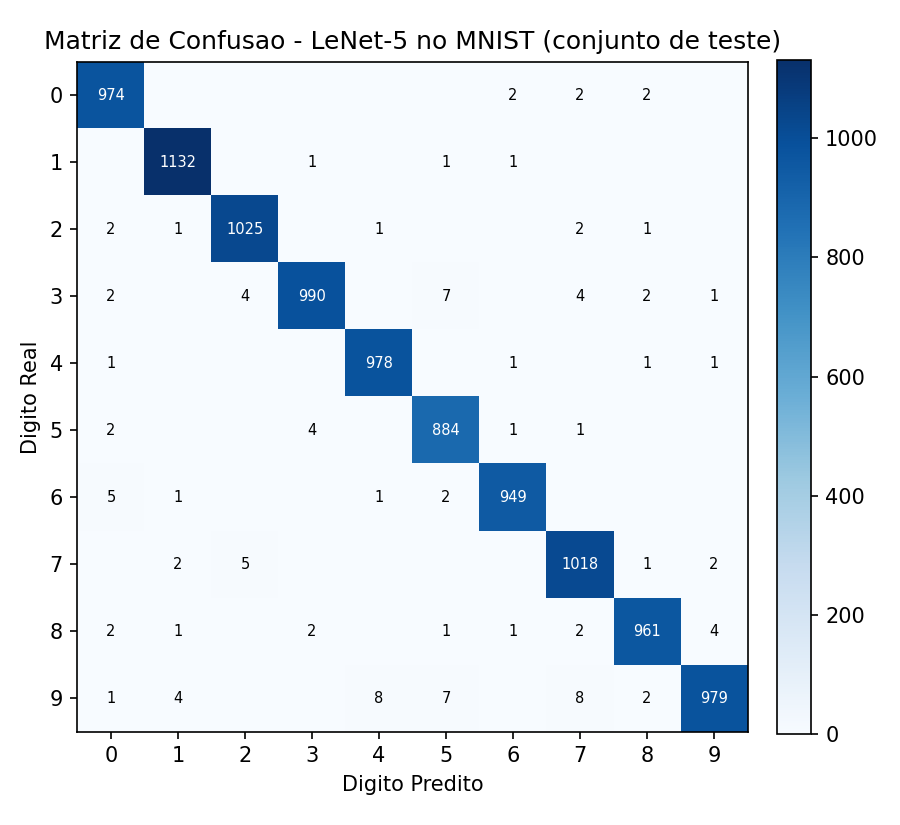
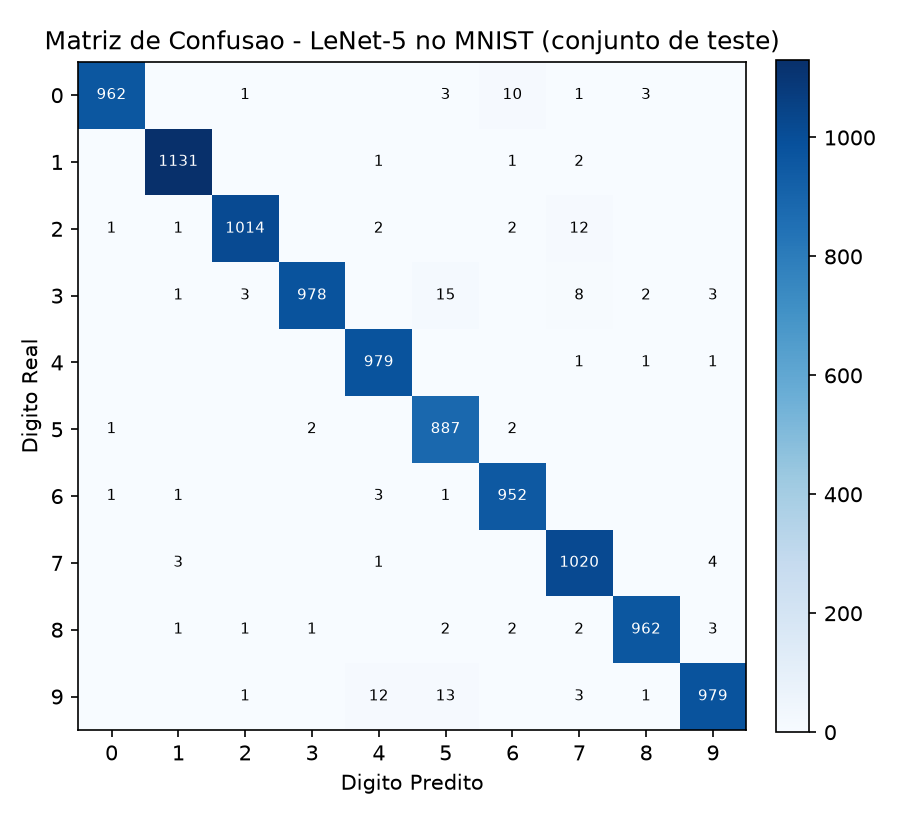
fix: hold out validation split from MNIST training set
Training used the test set as per-epoch validation, so the reported test
accuracy was not independent. Split 55k/5k from the training set with a
fixed seed, evaluate the test set once per run, and add --seeds to repeat
the run with consecutive seeds.

diff --git a/portfolio-4-machine-learning/src/projeto_04_deep_learning.py b/portfolio-4-machine-learning/src/projeto_04_deep_learning.py
@@ -17,6 +17,7 @@ ao final.
 
 from __future__ import annotations
 
+import argparse
 from dataclasses import dataclass, field
 from pathlib import Path
 from time import perf_counter
@@ -26,15 +27,17 @@ import matplotlib.pyplot as plt
 import torch
 import torch.nn as nn
 import torch.nn.functional as F
-from torch.utils.data import DataLoader
+from torch.utils.data import DataLoader, random_split
 from torchvision import datasets, transforms
 
 # Pasta onde as figuras geradas por este script sao salvas.
 FIGS_DIR = Path("imagens")
 FIGS_DIR.mkdir(exist_ok=True, parents=True)
 
+# Semente da particao treino/validacao (fixa em todas as execucoes) e semente
+# padrao de inicializacao e embaralhamento. Ver --seeds em main().
 RANDOM_STATE = 42
-torch.manual_seed(RANDOM_STATE)
+N_VAL = 5_000
 
 
 @dataclass
@@ -124,21 +127,34 @@ class LeNet5(nn.Module):
 
 
 class MnistDataModule:
-    """Encapsula o download, a normalizacao e o particionamento do MNIST."""
+    """Encapsula o download, a normalizacao e o particionamento do MNIST.
+
+    Os 60k exemplos de treino sao divididos em 55k treino / 5k validacao com
+    uma semente fixa. O conjunto de teste (10k) so e usado na avaliacao final,
+    uma unica vez, para que nenhuma decisao de treino o enxergue.
+    """
 
     MEAN, STD = 0.1307, 0.3081  # estatisticas padrao do MNIST (LeCun et al.)
 
-    def __init__(self, data_dir: str = "./mnist_data", batch_size: int = 128) -> None:
+    def __init__(self, data_dir: str = "./mnist_data", batch_size: int = 128,
+                 n_val: int = N_VAL, split_seed: int = RANDOM_STATE) -> None:
         self._batch_size = batch_size
         transform = transforms.Compose([
             transforms.ToTensor(),
             transforms.Normalize((self.MEAN,), (self.STD,)),
         ])
-        self.train_set = datasets.MNIST(data_dir, train=True, download=True, transform=transform)
+        full_train = datasets.MNIST(data_dir, train=True, download=True, transform=transform)
         self.test_set = datasets.MNIST(data_dir, train=False, download=True, transform=transform)
+        self.train_set, self.val_set = random_split(
+            full_train, [len(full_train) - n_val, n_val],
+            generator=torch.Generator().manual_seed(split_seed),
+        )
 
     def train_loader(self) -> DataLoader:
         return DataLoader(self.train_set, batch_size=self._batch_size, shuffle=True, num_workers=2)
+
+    def val_loader(self) -> DataLoader:
+        return DataLoader(self.val_set, batch_size=self._batch_size, shuffle=False, num_workers=2)
 
     def test_loader(self) -> DataLoader:
         return DataLoader(self.test_set, batch_size=self._batch_size, shuffle=False, num_workers=2)
@@ -272,25 +288,61 @@ def plot_sample_predictions(model: LeNet5, loader: DataLoader, device: str, file
     plt.close(fig)
 
 
+@dataclass
+class RunResult:
+    """DTO com o resultado de uma execucao completa (uma semente)."""
+
+    seed: int
+    history: TrainingHistory
+    confusion: np.ndarray
+    val_accuracy: float
+    test_accuracy: float
+    trainer: LeNetTrainer
+
+
+def run_experiment(data: MnistDataModule, config: TrainingConfig, seed: int) -> RunResult:
+    """Treina com 'seed', acompanha a validacao e avalia o teste uma unica vez."""
+    torch.manual_seed(seed)
+    trainer = LeNetTrainer(LeNet5(), config)
+    history = trainer.fit(data.train_loader(), data.val_loader())
+
+    confusion = trainer.collect_confusion_matrix(data.test_loader())
+    test_accuracy = float(np.trace(confusion) / confusion.sum())
+    return RunResult(seed, history, confusion, history.val_accuracies[-1], test_accuracy, trainer)
+
+
 def main() -> None:
+    parser = argparse.ArgumentParser(description="LeNet-5 no MNIST")
+    parser.add_argument("--seeds", type=int, default=1,
+                        help="numero de execucoes com sementes consecutivas a partir de 42")
+    args = parser.parse_args()
+
     config = TrainingConfig()
     print(f"Dispositivo de treinamento: {config.device}")
 
     data = MnistDataModule(batch_size=config.batch_size)
-    train_loader = data.train_loader()
-    test_loader = data.test_loader()
+    print(f"Particao: {len(data.train_set)} treino / {len(data.val_set)} validacao / "
+          f"{len(data.test_set)} teste")
 
-    model = LeNet5()
-    trainer = LeNetTrainer(model, config)
-    history = trainer.fit(train_loader, test_loader)
+    results = []
+    for seed in range(RANDOM_STATE, RANDOM_STATE + args.seeds):
+        print(f"\n--- Semente {seed} ---")
+        results.append(run_experiment(data, config, seed))
+        print(f"Validacao (ultima epoca): {results[-1].val_accuracy*100:.2f}% | "
+              f"Teste: {results[-1].test_accuracy*100:.2f}%")
 
-    confusion = trainer.collect_confusion_matrix(test_loader)
-    final_accuracy = np.trace(confusion) / confusion.sum()
-    print(f"\nAcuracia final no conjunto de teste: {final_accuracy*100:.2f}%")
+    val_accs = np.array([r.val_accuracy for r in results]) * 100
+    test_accs = np.array([r.test_accuracy for r in results]) * 100
+    print(f"\nAcuracia de validacao: {val_accs.mean():.2f}% +- {val_accs.std(ddof=1) if len(val_accs) > 1 else 0.0:.2f}")
+    print(f"Acuracia de teste (avaliada uma vez por execucao): "
+          f"{test_accs.mean():.2f}% +- {test_accs.std(ddof=1) if len(test_accs) > 1 else 0.0:.2f} "
+          f"({len(results)} semente(s))")
 
-    plot_training_curves(history, "p4_training_curves.png")
-    plot_confusion_matrix(confusion, "p4_confusion_matrix.png")
-    plot_sample_predictions(trainer.model, test_loader, config.device, "p4_sample_predictions.png")
+    # Figuras da primeira execucao (semente 42).
+    first = results[0]
+    plot_training_curves(first.history, "p4_training_curves.png")
+    plot_confusion_matrix(first.confusion, "p4_confusion_matrix.png")
+    plot_sample_predictions(first.trainer.model, data.test_loader(), config.device, "p4_sample_predictions.png")
 
     print("\nFiguras salvas em:", FIGS_DIR)
 
